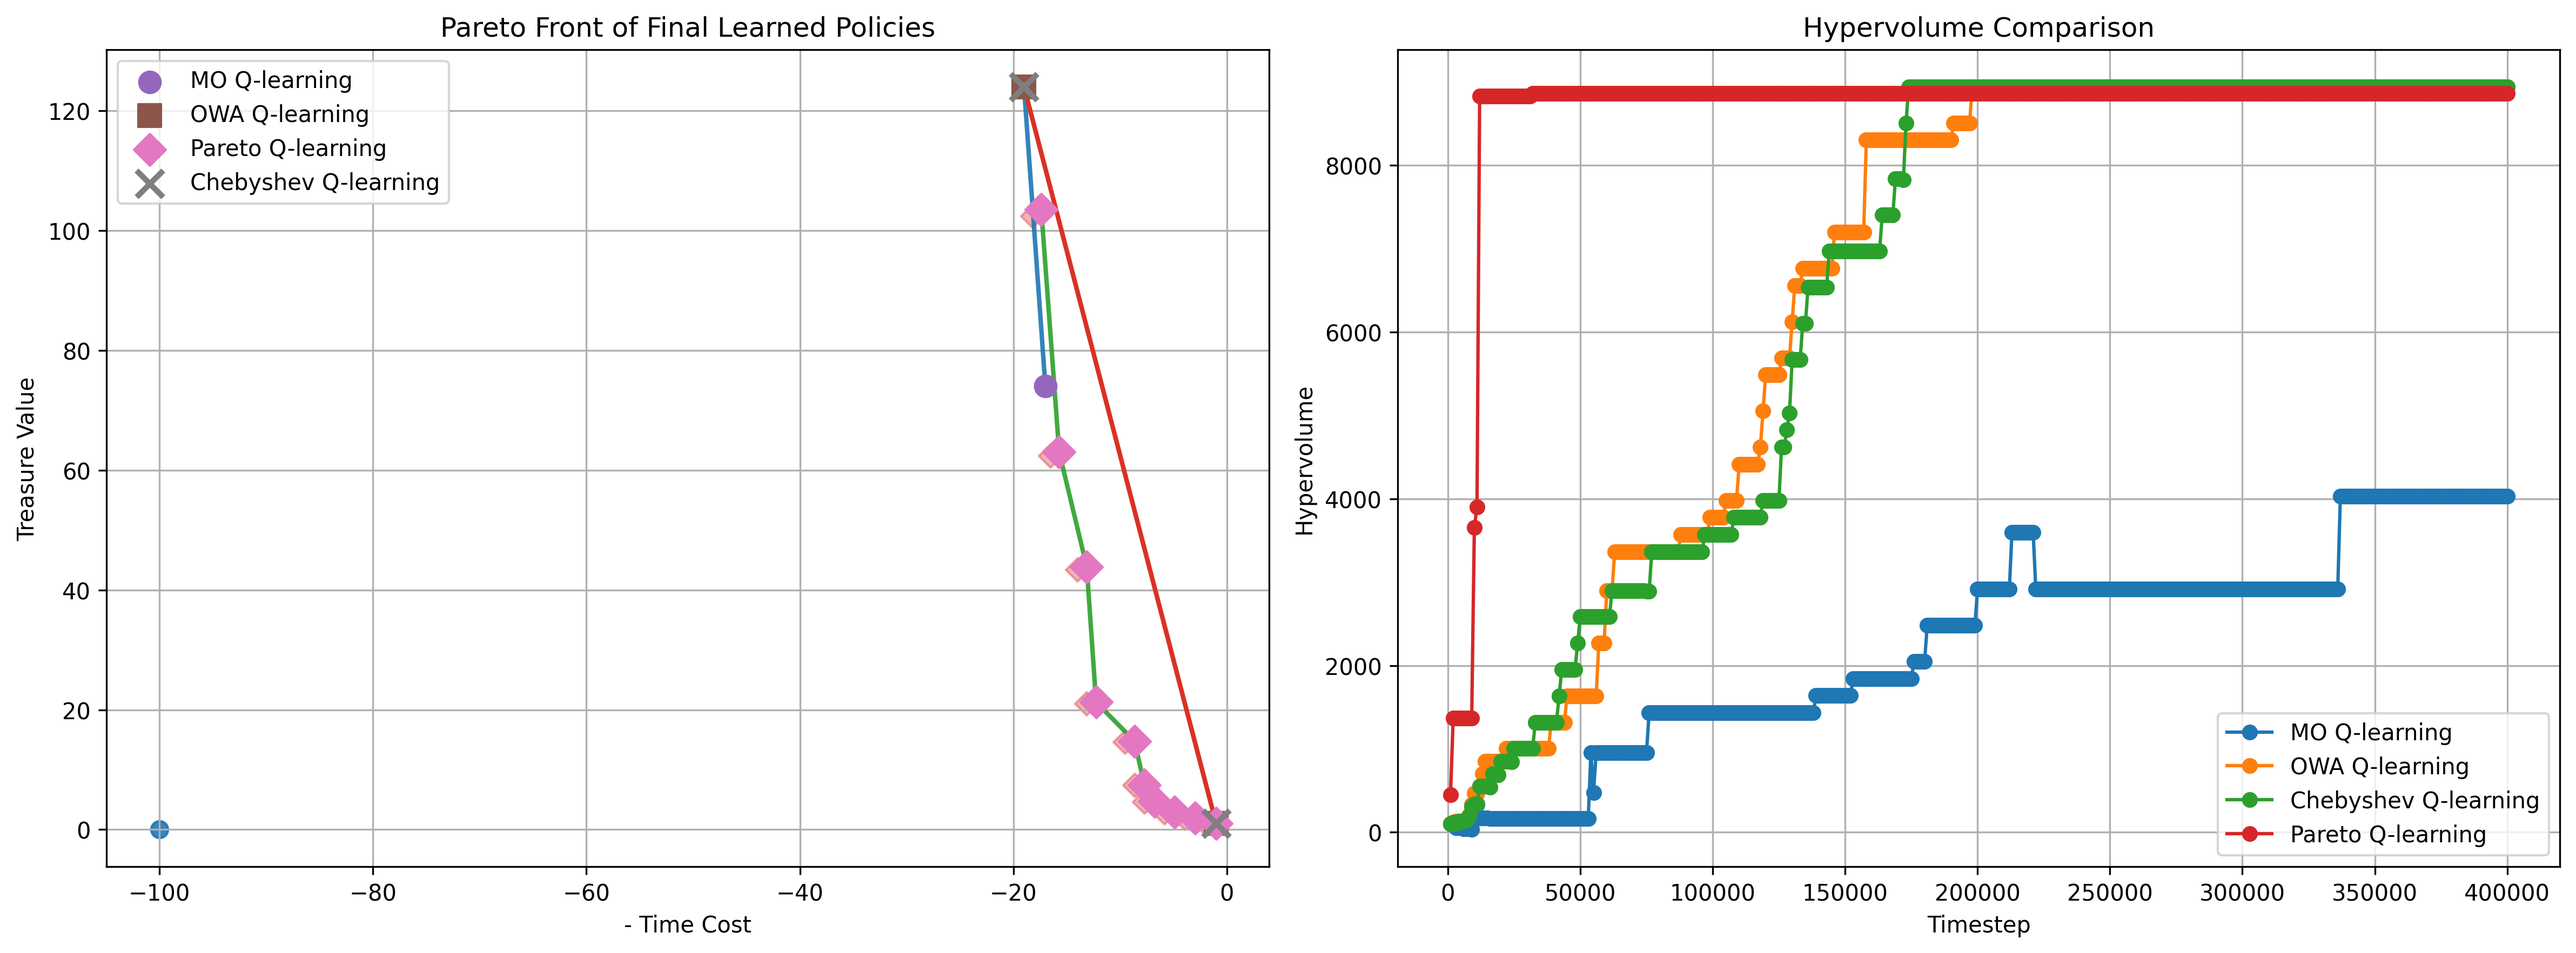
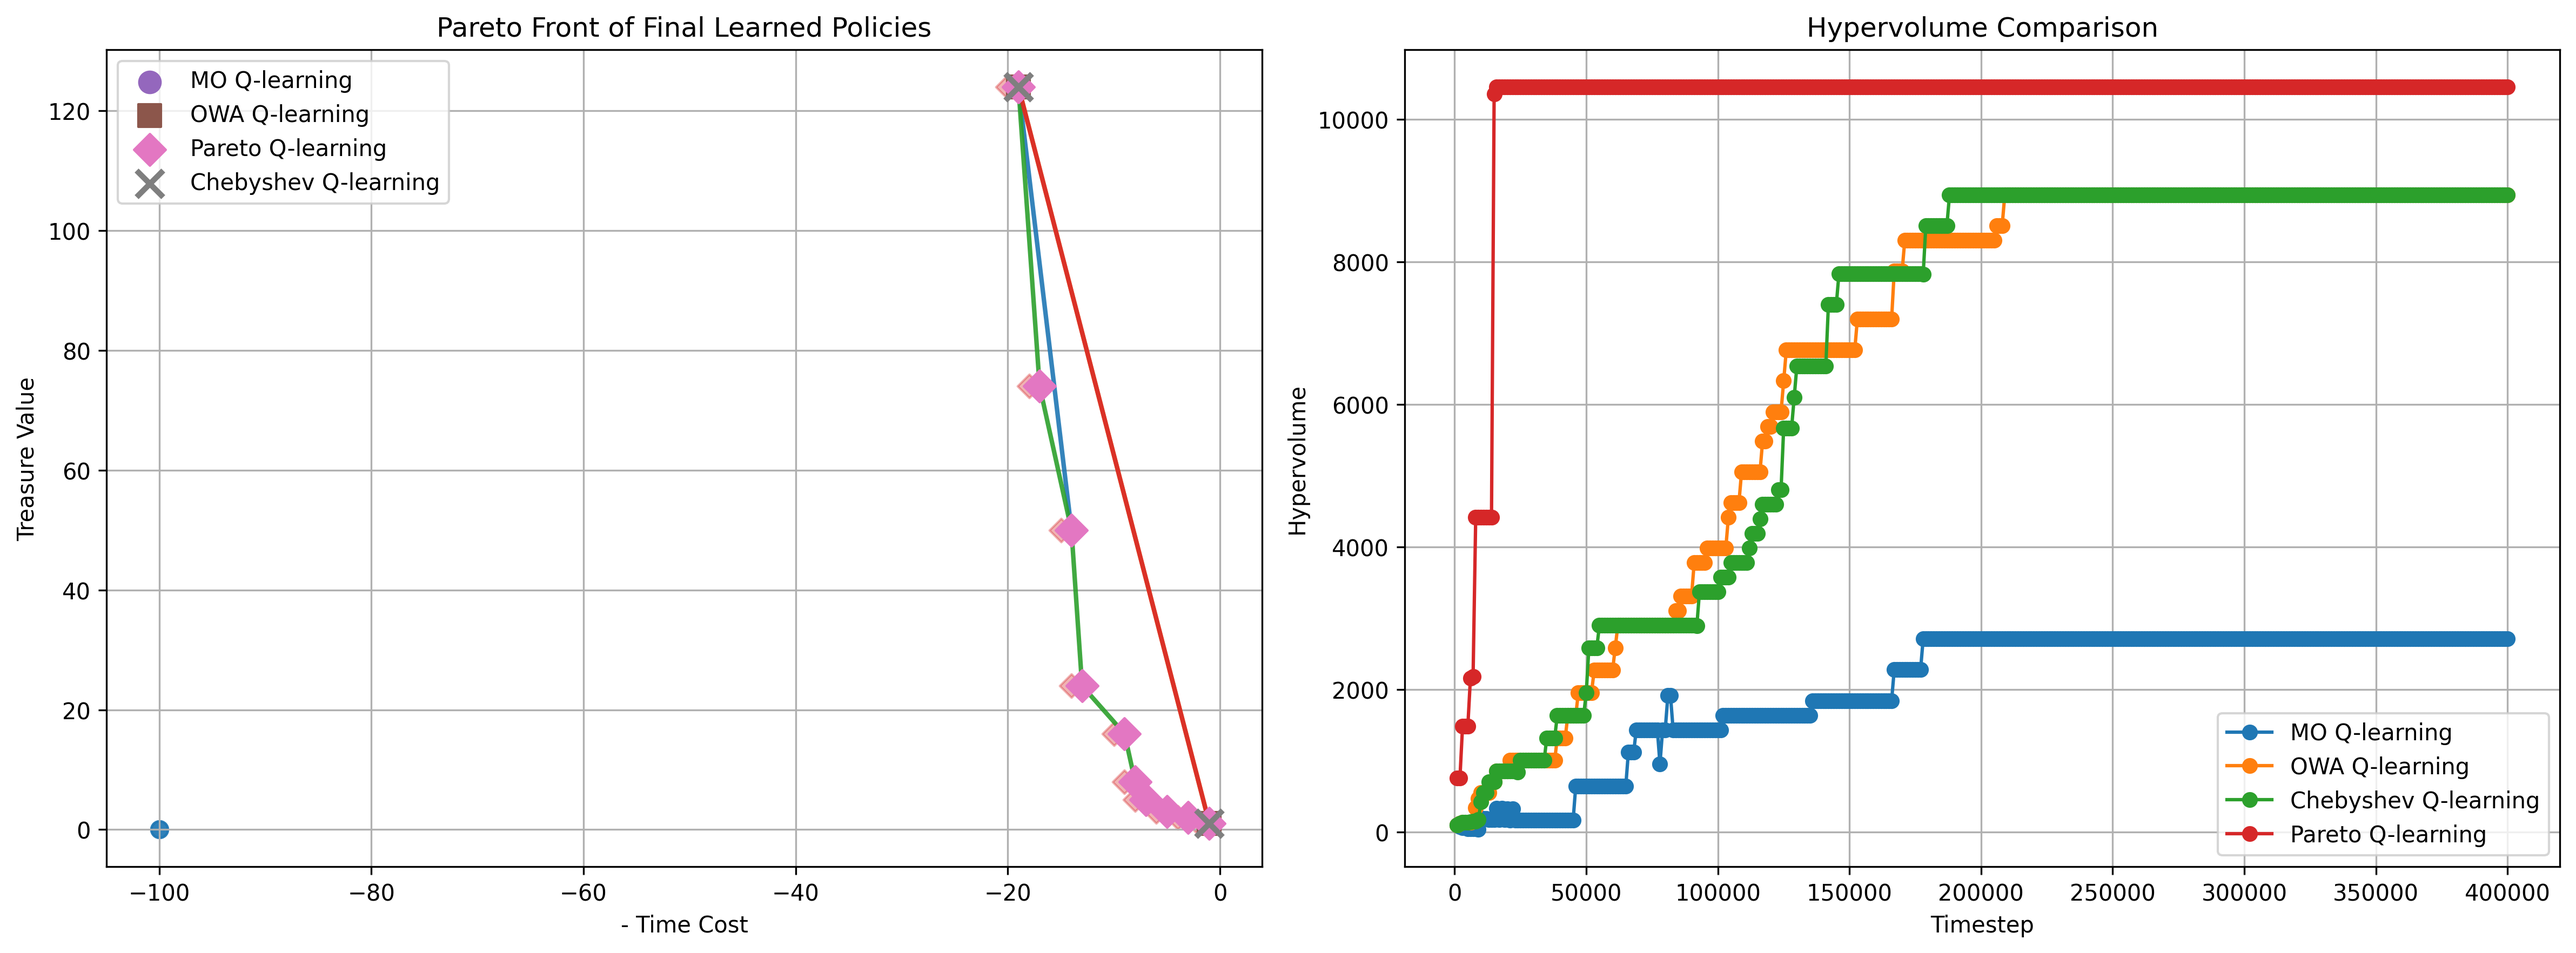
update

diff --git a/DST_concave/main.py b/DST_concave/main.py
@@ -11,6 +11,13 @@ from plots import (
     plot_pql_results,
     plot_all_comparisons,
 )
+from utils import (
+    expected_utility_metric,
+    dict_points_to_maximize,
+    list_points_to_maximize,
+    extract_pareto_front,
+    compute_hypervolume_2d,
+)
 
 RUN_MODE = sys.argv[1].lower() if len(sys.argv) > 1 else "mo"
 
@@ -144,13 +151,12 @@ if RUN_MODE in ["cheb", "all", "compare"]:
         )
 
 
-
 # pareto_q_learning
 
 if RUN_MODE in ["pql", "all", "compare"]:
     episode_points_pql, hv_timesteps_pql, hv_points_pql = train_pql(
         total_timesteps=400000,
-        gamma=0.99,
+        gamma=1.0,
         epsilon_start=1.0,
         epsilon_end=0.05,
         log_interval=1000,
@@ -162,7 +168,6 @@ if RUN_MODE in ["pql", "all", "compare"]:
             hv_timesteps_pql,
             hv_points_pql,
         )
-
 
 
 # all individual plots
@@ -196,8 +201,7 @@ if RUN_MODE == "all":
     )
 
 
-
-# combined comparison plot
+# combined comparison plot + fair final metrics
 
 if RUN_MODE == "compare":
     plot_all_comparisons(
@@ -217,3 +221,41 @@ if RUN_MODE == "compare":
         owa_settings,
         cheb_settings,
     )
+
+    # convert to maximization form
+    mo_points = dict_points_to_maximize(all_episode_points)
+    owa_points = dict_points_to_maximize(all_episode_points_owa)
+    cheb_points = dict_points_to_maximize(all_episode_points_cheb)
+    pql_points = list_points_to_maximize(episode_points_pql)
+
+    # final nondominated sets
+    mo_front = extract_pareto_front(mo_points)
+    owa_front = extract_pareto_front(owa_points)
+    cheb_front = extract_pareto_front(cheb_points)
+    pql_front = extract_pareto_front(pql_points)
+
+    # EUM on final nondominated sets
+    mo_eum = expected_utility_metric(mo_front, weights_list)
+    owa_eum = expected_utility_metric(owa_front, weights_list)
+    cheb_eum = expected_utility_metric(cheb_front, weights_list)
+    pql_eum = expected_utility_metric(pql_front, weights_list)
+
+    print("\nExpected Utility Metric (EUM):")
+    print(f"MO Q-Learning:        {mo_eum:.4f}")
+    print(f"OWA Q-Learning:       {owa_eum:.4f}")
+    print(f"Chebyshev Q-Learning: {cheb_eum:.4f}")
+    print(f"Pareto Q-Learning:    {pql_eum:.4f}")
+
+    # fair final hypervolume comparison on final nondominated sets
+    ref_point = (-100, 0)
+
+    mo_final_hv = compute_hypervolume_2d(mo_front, ref_point=ref_point)
+    owa_final_hv = compute_hypervolume_2d(owa_front, ref_point=ref_point)
+    cheb_final_hv = compute_hypervolume_2d(cheb_front, ref_point=ref_point)
+    pql_final_hv = compute_hypervolume_2d(pql_front, ref_point=ref_point)
+
+    print("\nHypervolume (nondominated sets):")
+    print(f"MO Q-Learning:        {mo_final_hv:.4f}")
+    print(f"OWA Q-Learning:       {owa_final_hv:.4f}")
+    print(f"Chebyshev Q-Learning: {cheb_final_hv:.4f}")
+    print(f"Pareto Q-Learning:    {pql_final_hv:.4f}")

diff --git a/DST_concave/utils.py b/DST_concave/utils.py
@@ -68,3 +68,92 @@ def get_non_dominated(vectors):
         if not dominated_flag and v not in nd:
             nd.append(v)
     return nd
+
+
+def linear_utility(vec, weights):
+    """
+    vec and weights must both be length-2 tuples
+    vec must be in maximization form: (obj1, obj2)
+    """
+    return weights[0] * vec[0] + weights[1] * vec[1]
+
+
+def expected_utility_metric(point_set, weight_list):
+    """
+    point_set: list of points in maximization form
+               example: [(-time_cost, treasure), ...]
+    weight_list: list of preference weights
+                 example: [(0.9, 0.1), (0.8, 0.2), ...]
+
+    Computes:
+        average_w [ max_p u(p, w) ]
+    """
+    if not point_set:
+        return 0.0
+
+    best_utilities = []
+    for w in weight_list:
+        best_u = max(linear_utility(p, w) for p in point_set)
+        best_utilities.append(best_u)
+
+    return float(np.mean(best_utilities))
+
+
+def dict_points_to_maximize(points_dict):
+    """
+    Converts dict values like:
+        weights -> (time_cost, treasure)
+    or
+        weights -> [(time_cost, treasure), ...]
+    into:
+        [(-time_cost, treasure), ...]
+    """
+    points = []
+
+    for value in points_dict.values():
+        if value is None:
+            continue
+
+        if (
+            isinstance(value, tuple)
+            and len(value) == 2
+            and isinstance(value[0], (int, float, np.integer, np.floating))
+            and isinstance(value[1], (int, float, np.integer, np.floating))
+        ):
+            time_cost, treasure = value
+            points.append((-time_cost, treasure))
+
+        elif isinstance(value, (list, tuple)):
+            for item in value:
+                if (
+                    isinstance(item, (list, tuple))
+                    and len(item) == 2
+                    and isinstance(item[0], (int, float, np.integer, np.floating))
+                    and isinstance(item[1], (int, float, np.integer, np.floating))
+                ):
+                    time_cost, treasure = item
+                    points.append((-time_cost, treasure))
+
+    return points
+
+
+def list_points_to_maximize(points_list):
+    """
+    Converts:
+        [(time_cost, treasure), ...]
+    into:
+        [(-time_cost, treasure), ...]
+    """
+    points = []
+
+    for item in points_list:
+        if (
+            isinstance(item, (list, tuple))
+            and len(item) == 2
+            and isinstance(item[0], (int, float, np.integer, np.floating))
+            and isinstance(item[1], (int, float, np.integer, np.floating))
+        ):
+            time_cost, treasure = item
+            points.append((-time_cost, treasure))
+
+    return points
